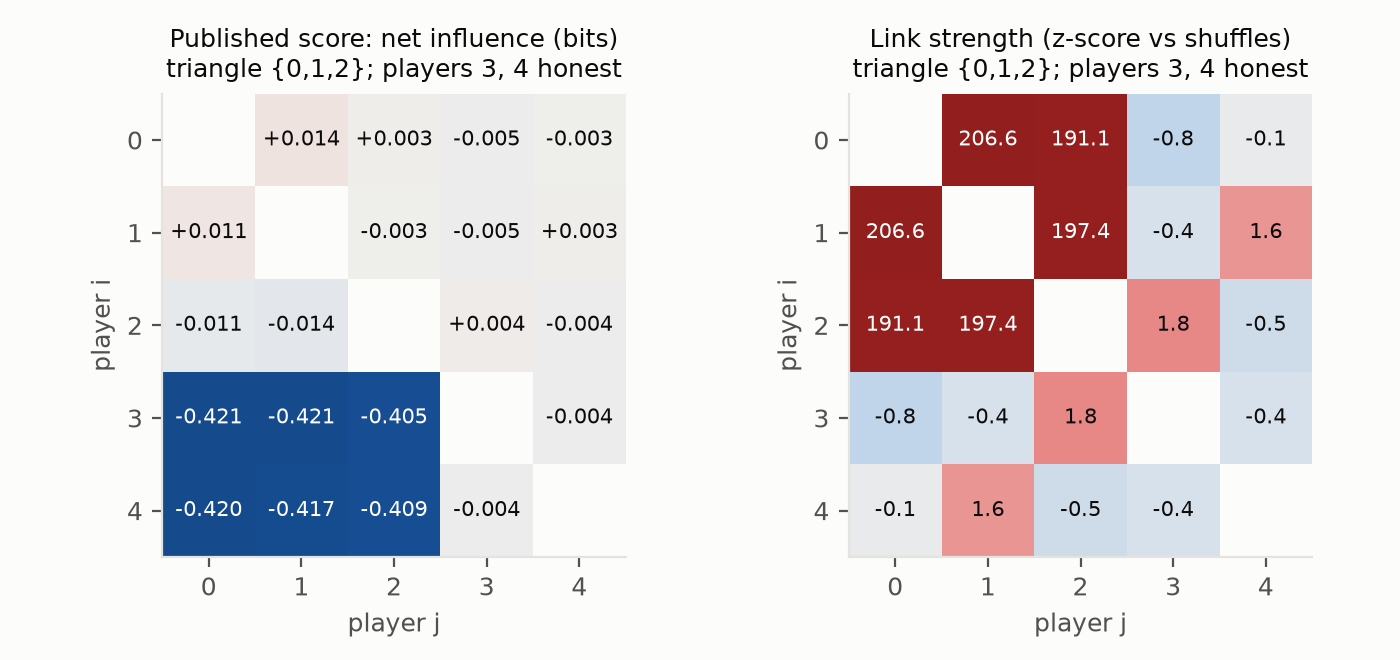
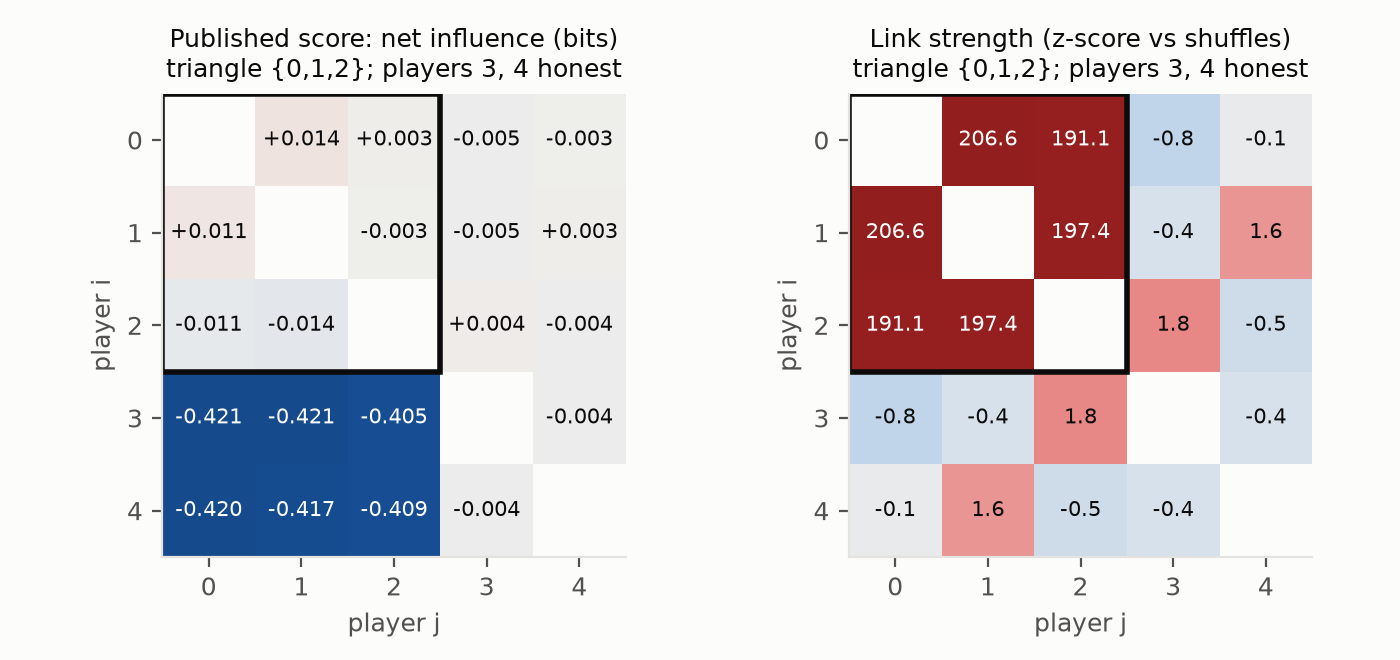
Report: sharper title, cartel miss in abstract, novelty vs scan statistics, auditor recipe, fixed-setting Table 2, figure fixes
- Title "Detecting Colluding Groups from Moves Alone: ..."; abstract states the public-move miss
- Related work cites Kulldorff (1997) and Neill (2012) and says what is new; §5 adds a 3-step recipe
- Table 2 at one comparable setting (CP 0.2, 300 rounds) with intervals; text and "Where it loses" use it
  (make_figures.py F -> results/figures/table_fixed_setting_cp02_r300.csv)
- Figure 1 outlines the triangle; Figure 3 greys out Bonjour; Figure 4 uses condition colours no
  detector uses

diff --git a/experiments/make_figures.py b/experiments/make_figures.py
@@ -2,6 +2,7 @@
 
   python make_figures.py A B C D E      (any subset)
   python make_figures.py R              print-size Figures 1-3 for report/report.md -> report/figures/
+  python make_figures.py F              report Table 2 (fixed setting) -> results/figures/table_fixed_setting_cp02_r300.csv
 """
 import sys
 from pathlib import Path
@@ -74,6 +75,9 @@ def fig_a(kinds=(("triangle", 7), ("hub", 8)), figsize=(9.5, 8), out=FIG / "figA
                                 color="white" if abs(norm(M[i, j]) - 0.5) > 0.35 else "#0b0b0b")
                         rows.append(dict(structure=kind, matrix=name, i=i, j=j, value=M[i, j]))
             ax.set_xticks(range(5)); ax.set_yticks(range(5))
+            if not title and kind == "triangle":            # report figure: outline the colluding block
+                from matplotlib.patches import Rectangle
+                ax.add_patch(Rectangle((-0.5, -0.5), 3, 3, fill=False, lw=2, ec="#0b0b0b"))
             ax.set_xlabel("player j"); ax.set_ylabel("player i")
             ax.grid(False)
             who = "triangle {0,1,2}" if kind == "triangle" else "hub: leader 0, helpers 1, 2"
@@ -175,8 +179,10 @@ def fig_e(grid=(1, 4), figsize=(14, 4), out=FIG / "figE_state_false_alarms.png",
         d0 = g[(g.mix == mix) & (g.rounds == 1000)]
         for k, det in enumerate(PLOT):
             d = d0[d0.detector == det].set_index("state").loc[states]
+            # report figure: grey out Bonjour, which sits at 0 only because its cutoff never fires here
+            color = "#b5b4af" if (not title and det == "bonjour") else COLOR[det]
             ax.errorbar(np.arange(4) + off[k], d.pct, yerr=[(d.pct - d.lo).clip(lower=0), (d.hi - d.pct).clip(lower=0)],
-                        fmt=MARKER[det], ms=5, capsize=2, color=COLOR[det], label=SHORT[det])
+                        fmt=MARKER[det], ms=5, capsize=2, color=color, label=SHORT[det])
         ax.axhline(5, color=INK2, lw=1, ls="--")
         ax.set_xticks(range(4)); ax.set_xticklabels(states)
         if i >= len(axs) - grid[1]:
@@ -212,6 +218,18 @@ def table_t():
     print(t.to_string())
 
 
+def table_fixed():
+    """Report Table 2: exact recovery at the one setting every group was run at (CP 0.2, 300 rounds, B = 200)."""
+    df = pd.concat([pd.read_csv(ROOT / f"results/step4/runs_n{n}.csv") for n in (5, 20)], ignore_index=True)
+    df = df[(df.cp == 0.2) & (df.rounds == 300) & (df.structure != "none") & df.detector.isin(PLOT)]
+    df = df.assign(n_planted=df.structure.map(lambda s: 2 if s == "two_pairs" else 1))
+    g = _rate(df, "recovered", ["structure", "n", "detector"])
+    g["cell"] = g.apply(lambda r: f"{r.pct:.0f} [{r.lo:.0f}, {r.hi:.0f}]", axis=1)
+    t = g.pivot_table(index=["structure", "n"], columns="detector", values="cell", aggfunc="first")[PLOT].rename(columns=SHORT)
+    t.to_csv(FIG / "table_fixed_setting_cp02_r300.csv")
+    print(t.to_string())
+
+
 def report_figures():
     """Figures 1-3 of report/report.md at print width (7 in), no suptitles (the captions carry them)."""
     REPORT_FIG.mkdir(parents=True, exist_ok=True)
@@ -222,5 +240,6 @@ def report_figures():
 
 if __name__ == "__main__":
     for k in sys.argv[1:]:
-        {"A": fig_a, "B": fig_b, "C": fig_c, "D": fig_d, "E": fig_e, "T": table_t, "R": report_figures}[k]()
+        {"A": fig_a, "B": fig_b, "C": fig_c, "D": fig_d, "E": fig_e, "T": table_t, "F": table_fixed,
+         "R": report_figures}[k]()
         print("fig", k, "done")

diff --git a/report/make_llm_figure.py b/report/make_llm_figure.py
@@ -15,11 +15,14 @@ sys.path[:0] = [str(ROOT), str(ROOT / "studies" / "llm_auction")]
 sys.argv = sys.argv[:1]                                    # build_report reads argv[1] as its output path
 
 import matplotlib.pyplot as plt  # noqa: E402
-from build_report import COLOR, CONDS, GRID, INK, INK2, LABEL, MARKER, batch_rates, load  # noqa: E402
+from build_report import CONDS, GRID, INK, INK2, LABEL, MARKER, batch_rates, load  # noqa: E402
 
 from collusion.metrics import wilson  # noqa: E402
 
 SIZES = (5, 10, 20)
+# Conditions get colours no detector uses in Figures 2-3 (palette slots 6 and 7, plus grey for the
+# no-comms, no-pressure control), so blue never means two different things in the report.
+COLOR = {"comms_off": "#8a8984", "pressure_off": "#6250d6", "comms_pressure": "#008300"}
 OUT = Path(__file__).with_name("figures") / "fig4_llm_detection.png"
 
 

diff --git a/report/report.md b/report/report.md
@@ -7,7 +7,7 @@ Numbers come from results/SUMMARY.md, studies/llm_auction and studies/llm_auctio
 (runs/n5_rates_v1/analysis.txt, dry_run.txt).
 -->
 
-# Finding Colluding Groups from Players' Moves: Group Scans and State-Conditioned Shuffle Tests for Multi-Agent and LLM Collusion
+# Detecting Colluding Groups from Moves Alone: Group Scans with History-Conditioned Shuffle Tests
 
 **Tarun Trivedi** (Independent), **Eashan Gandotra** (Independent)
 
@@ -17,7 +17,7 @@ Numbers come from results/SUMMARY.md, studies/llm_auction and studies/llm_auctio
 
 ## Abstract
 
-<!-- 150–250 words (currently ~239). Plain terms only: hubs, cliques, history states etc. are defined in Section 3. -->
+<!-- 150–250 words (currently ~247). Plain terms only: hubs, cliques, history states etc. are defined in Section 3. -->
 
 Auditors of multi-agent systems often see what agents do, not what they say to each other. The
 information-theoretic detector of Bonjour et al. (2022) looks for one pair of players whose moves depend
@@ -31,8 +31,8 @@ respond to the previous round look like colluders in up to 100% of games unless 
 recent history are shuffled together, which keeps false alarms at 4–9% while still catching a group that
 colludes for profit. In LLM double auctions where sellers see only a recorded summary of the last hour,
 gpt-4.1-mini sellers given a message channel and profit pressure earn about 50% more than with pressure
-alone; the test flags them but not the controls. Moves-only auditing works if the auditor records what
-each agent sees and tests groups, not just pairs.
+alone; the test flags them but not the controls, and it misses sellers who coordinate only by following
+public moves. Moves-only auditing works if the auditor records what each agent sees and tests groups.
 
 ## 1. Introduction
 
@@ -54,8 +54,8 @@ Our contributions:
    score, so the published rule rarely flags even one in-group pair (8–15% of games), although the links
    are ~200 standard deviations above chance; its fixed threshold is also uncalibrated.
 2. **A shuffle-calibrated group scan** that recovers weak, broad groups pairwise methods miss (48% vs 5%
-   for a weak 5-player group among 20) at near-nominal false-alarm rates, and loses only where
-   colluders are not all linked to each other.
+   for a weak 5-player group among 20) at near-nominal false-alarm rates; a per-pair test does better
+   on hubs and isolated pairs.
 3. **History conditioning is necessary.** Honest players who react to history are flagged in up to 100%
    of games unless the shuffle stays within history states; with the right state, a coalition whose
    coordination pays is found while honest exploiters are not.
@@ -87,13 +87,14 @@ suspicious behaviour; our "player score" baseline is inspired by this but is not
 Our "pair test" applies Benjamini–Hochberg (1995) false-discovery control to all pairs and joins
 significant pairs into groups.
 
-**Scan statistics and max-T tests.** The group scan is a scan statistic over subsets, calibrated by the
-permutation distribution of its maximum; this controls the family-wise error over all subsets at once
-(Westfall & Young, 1993).
+**Scan statistics.** Searching subsets for the most anomalous one and calibrating its maximum by
+permutation is standard in disease and event surveillance (Kulldorff, 1997; Neill, 2012) and controls the
+family-wise error over all subsets (max-T; Westfall & Young, 1993). What is new here is the target:
+subsets of agents scored by their pairwise dependence, a null that shuffles only within history states,
+and the confound of honest agents who react to the same history.
 
-**Gap.** No prior method we know of (i) detects groups larger than two from moves, (ii) has a
-calibrated false-alarm rate, and (iii) handles honest agents whose moves are correlated through
-shared history.
+**Gap.** We know of no collusion detector that (i) reports groups larger than two from moves, (ii) has a
+calibrated false-alarm rate, and (iii) handles honest agents correlated through shared history.
 
 ## 3. Methods
 
@@ -217,37 +218,38 @@ each colluder's strongest influence comes from another colluder.
 Scoring the group as a whole adds up evidence too weak in any single pair. With 20 players, 100 rounds
 and a 5-clique at CP 0.2, the group scan recovered the exact group in **48% [38, 58]** of games, against
 5% [2, 11] for the pair test and 4% [2, 10] for the player score (Figure 2). It also degrades less as
-players are added: for a triangle, the player score falls from 71% to 52% between n = 5 and 20, the group
-scan from 77% to 71% (Table 2). We plant groups of 3–5 because larger groups have more linked pairs and
+players are added: for a triangle at CP 0.2 and 300 rounds, the player score falls from 93% to 32% between
+5 and 20 players, the group scan from 93% to 84% (Table 2). We plant groups of 3–5 because larger groups have more linked pairs and
 are easier for every method; the scan searches all sizes. In a near-total cartel (18 of 20 players) it
 recovers the exact group in 96–100% of games from CP 0.2 with 300 rounds or CP 0.3 with 100, while the
 player score keeps up at weak collusion (76–100% at CP 0.1–0.2 with 300 rounds) but levels off at 76–92%
 at CP 0.3–0.5.
 
-**Table 2.** Exact recovery (%) by planted group and number of players. Each row averages over the CP and
-round settings tried for that group (4 for pair, hub and xor; 12–15 for the others; 200 shuffles), so rows
-are not comparable with each other or with single settings such as the 48% above.
+**Table 2.** Exact recovery (%) at one setting every group was run at: CP 0.2, 300 rounds, 200 shuffles,
+20 players (triangle also at 5), 50 games per cell at 20 players and 100 at 5; 95% Wilson intervals for the
+two strongest methods.
 
-| Planted group | n | Bonjour | Pair test | Player score | Group scan |
-|---|---|---|---|---|---|
-| Pair | 20 | 70 | 89 | 72 | **91** |
-| Hub | 20 | 0 | **86** | 68 | 78 |
-| Triangle | 5 | 0 | 67 | 71 | **77** |
-| Triangle | 20 | 0 | 64 | 52 | **71** |
-| 4-clique | 20 | 0 | 48 | 45 | **62** |
-| 5-clique | 20 | 0 | 46 | 51 | **63** |
-| xor | 5–20 | 0 | 0 | 0 | 0 |
+| Planted group | Bonjour | Pair test | Player score | Group scan |
+|---|---|---|---|---|
+| Pair | 34 | **70** [56, 81] | 8 | 64 [50, 76] |
+| Two pairs | 23 | **69** [59, 77] | 6 | 60 [50, 69] |
+| Hub | 0 | **66** [52, 78] | 2 | 44 [31, 58] |
+| Triangle (5 players) | 0 | 83 [74, 89] | 93 | **93** [86, 97] |
+| Triangle | 0 | 70 [56, 81] | 32 | **84** [71, 92] |
+| 4-clique | 0 | 78 [65, 87] | 66 | **90** [79, 96] |
+| 5-clique | 0 | 78 [65, 87] | 90 | **96** [87, 99] |
+| xor | 0 | 0 | 0 | 0 |
 
 ![Figure 2](figures/fig2_weak_cliques.png)
 
 **Figure 2.** Exact recovery vs CP for 4- and 5-cliques among 20 players (100 rounds, 1000 shuffles,
 100 games per point, 95% Wilson intervals). Bonjour stays at 0.
 
-**Where it loses.** The scan often reports a hub as one leader–helper pair, because the two helpers are
-linked only indirectly (z ≈ 29, against ≈ 150 for leader–helper links; 5 players, CP 0.5). The pair test, which joins both edges, does better (58% [48, 67] vs 34% [25, 44] at
-CP 0.2, 300 rounds, 20 players; 86% vs 78% averaged in Table 2). For two isolated weak pairs in short
-games the pair test also wins narrowly (58% [51, 64] vs 52% [46, 59]; 10 players, CP 0.3, 100 rounds):
-the scan pays for searching ~10<sup>3</sup> groups.
+**Where it loses.** On hubs the pair test does better (66% vs 44%, Table 2): the scan often reports one
+leader–helper pair, because the two helpers are linked only indirectly (z ≈ 29, against ≈ 150 for
+leader–helper links; 5 players, CP 0.5). On single and two separate weak pairs the pair test also edges
+ahead (70 vs 64 and 69 vs 60; intervals overlap): for a lone link, the scan pays for searching ~10<sup>6</sup>
+groups, while a per-pair correction is cheaper.
 
 ### 4.3 The test must condition on what honest players react to
 
@@ -260,7 +262,8 @@ are 4–9%.
 
 **Figure 3.** False-alarm rate by history state (coarse → fine) for four mixes of honest players; 10
 players, 1000 rounds, no colluders, 200 games per point, 95% Wilson intervals. Dashed line: 5% target.
-Bonjour's fixed rule sits at 0 because its cutoff never fires at 1000 rounds, not because it is calibrated.
+Bonjour's fixed rule (grey) sits at 0 because its cutoff never fires at 1000 rounds, not because it is
+calibrated.
 
 **Profitable collusion.** A 4-player steer group earns 0.21 points per round each at CP 0.3, **2.6×**
 what four independent exploiters earn reacting at the same rate; the margin-reactive players pay for it
@@ -340,6 +343,10 @@ agent is shown; the test is then valid when decisions depend only on what is log
 signal outside the log, collusive or not, so calling a flag collusion needs an outcome check such as the
 profit gap.
 
+**An auditor's recipe.** (1) Log what each agent observes each round. (2) Run the group scan with a shuffle
+that stays within those logged states. (3) Before calling a flagged group collusion, compare its payoff
+with a comparable honest baseline.
+
 **Limitations** (details in Appendix A). Coordination that is a function of the public state is
 invisible: in 2-seller pilots (Appendix D) the test missed sellers told to form an explicit cartel, who
 earned 7.63 per hour against 4.72 with comms off, because they coordinated by following last hour's
@@ -381,9 +388,11 @@ during the sprint.
 1. Agrawal, K., Teo, V., Vazquez, J. J., Kunnavakkam, S., Srikanth, V., & Liu, A. (2025). Evaluating LLM agent collusion in double auctions. arXiv:2507.01413. Code: <https://github.com/andyjliu/llm-agent-collusion>
 2. Benjamini, Y., & Hochberg, Y. (1995). Controlling the false discovery rate: a practical and powerful approach to multiple testing. *Journal of the Royal Statistical Society: Series B*, 57(1), 289–300.
 3. Bonjour, T., Aggarwal, V., & Bhargava, B. (2022). Information theoretic approach to detect collusion in multi-agent games. *Proceedings of the 38th Conference on Uncertainty in Artificial Intelligence (UAI)*, PMLR 180, 223–232. <https://proceedings.mlr.press/v180/bonjour22a.html>
-4. Rose, A., Cullen, C., Abdelnabi, S., Torr, P., Kaplowitz, B. G., & Schroeder de Witt, C. (2026). Detecting multi-agent collusion through multi-agent interpretability. arXiv:2604.01151.
-5. Westfall, P. H., & Young, S. S. (1993). *Resampling-Based Multiple Testing: Examples and Methods for p-Value Adjustment.* Wiley.
-6. Williams, P. L., & Beer, R. D. (2010). Nonnegative decomposition of multivariate information. arXiv:1004.2515.
+4. Kulldorff, M. (1997). A spatial scan statistic. *Communications in Statistics – Theory and Methods*, 26(6), 1481–1496.
+5. Neill, D. B. (2012). Fast subset scan for spatial pattern detection. *Journal of the Royal Statistical Society: Series B*, 74(2), 337–360.
+6. Rose, A., Cullen, C., Abdelnabi, S., Torr, P., Kaplowitz, B. G., & Schroeder de Witt, C. (2026). Detecting multi-agent collusion through multi-agent interpretability. arXiv:2604.01151.
+7. Westfall, P. H., & Young, S. S. (1993). *Resampling-Based Multiple Testing: Examples and Methods for p-Value Adjustment.* Wiley.
+8. Williams, P. L., & Beer, R. D. (2010). Nonnegative decomposition of multivariate information. arXiv:1004.2515.
 
 ---
 

diff --git a/results/RESULTS_INDEX.md b/results/RESULTS_INDEX.md
@@ -38,6 +38,8 @@ xor 6, none 7.
 | D — null false alarms (`figD_null_false_alarms.png`) | `figD_null_false_alarms.csv` | `make_figures.py D` | reads `step4_final/cells/none_*` |
 | E — false alarms by history state (`figE_state_false_alarms.png`) | `figE_state_false_alarms.csv` | `make_figures.py E` | reads `step5/partA_n10/` |
 | Table: structure × n with CIs | `table_structure_by_n_ci.csv` | `make_figures.py T` | reads `step4/runs_n*.csv` |
+| Report Table 2: fixed setting (CP 0.2, 300 rounds) | `table_fixed_setting_cp02_r300.csv` | `make_figures.py F` | reads `step4/runs_n{5,20}.csv` |
+| Report Figures 1–3 (print size) | `report/figures/fig{1,2,3}_*.png` | `make_figures.py R` | as Figures A, C, E |
 
 Summary tables in `results/SUMMARY.md` are copied from the files below (Table 1: step4 / figures T;
 Tables 2–3: step4_final; Tables 4 and 8: step1; Tables 5–7: step5).
